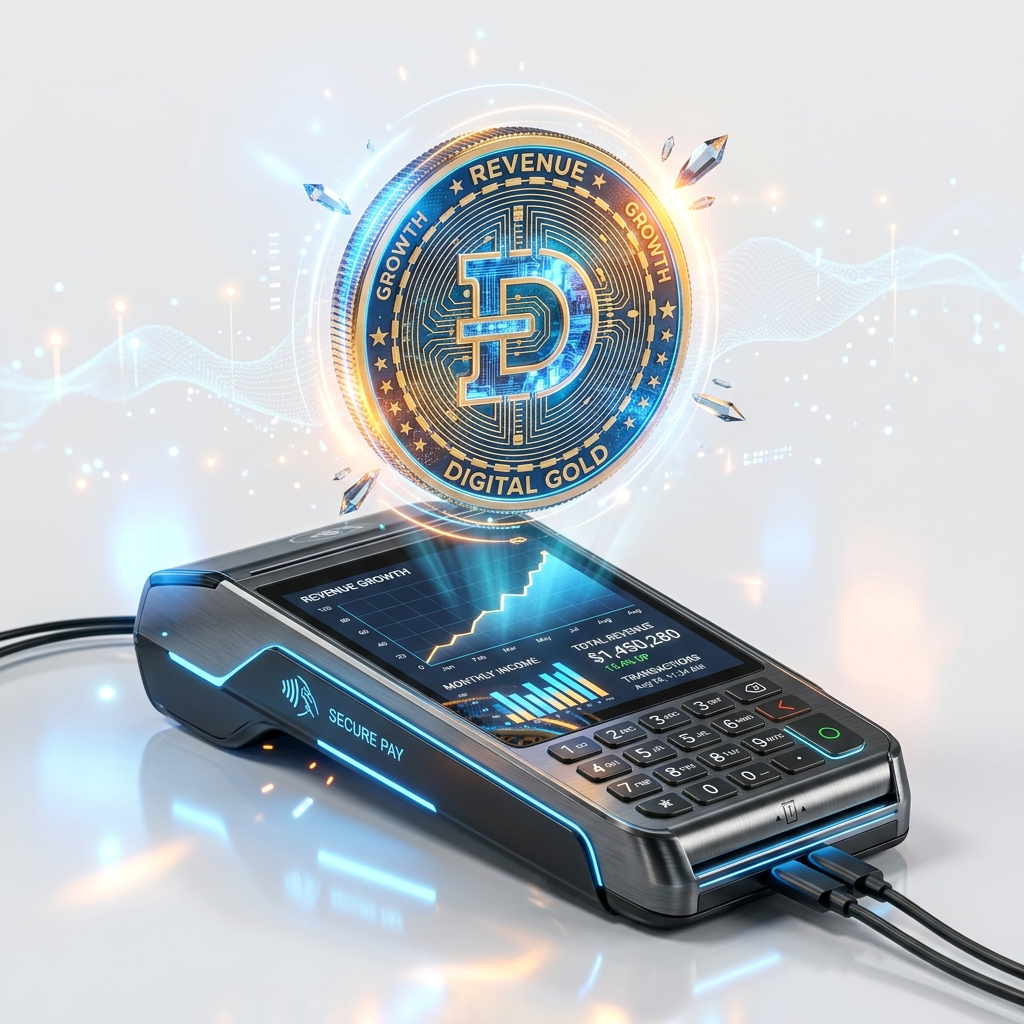
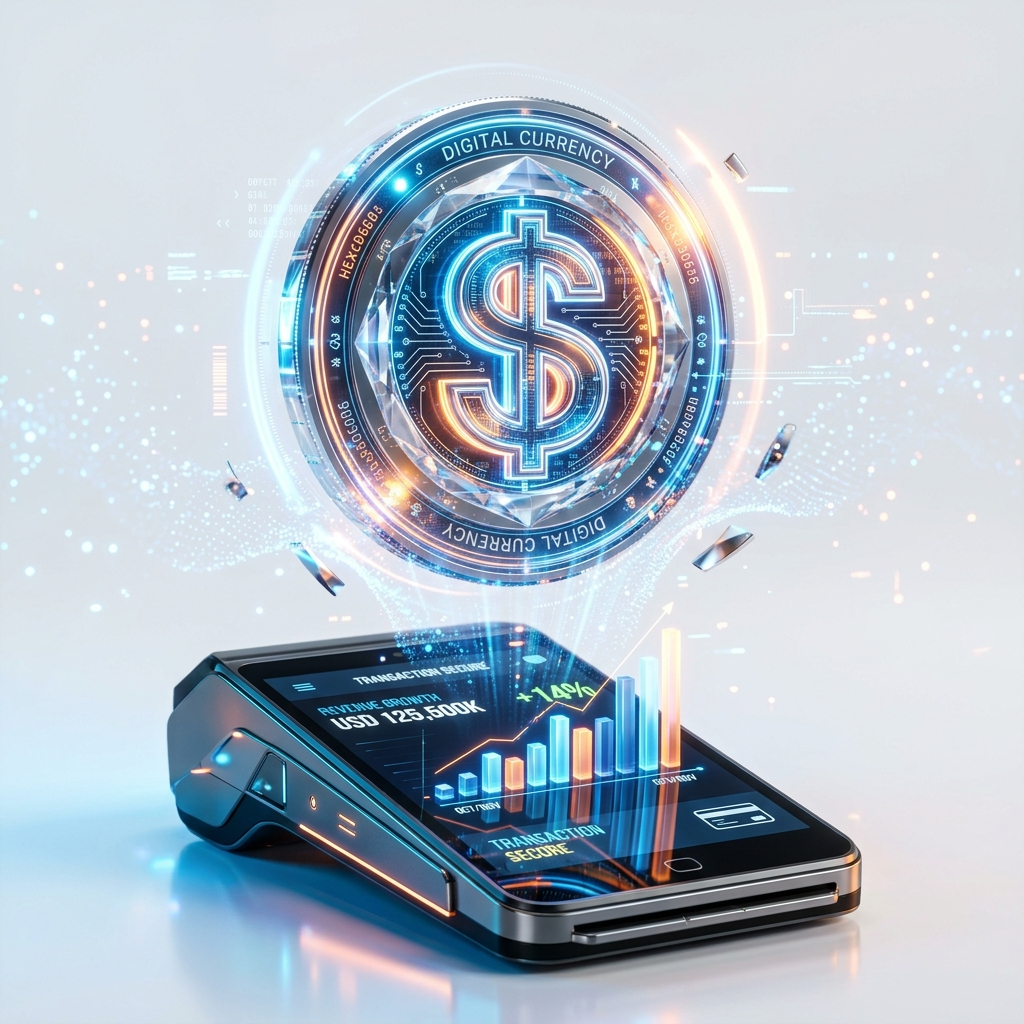
Convert Modules to Holographic Carousel, Upgrade Pilares & Pricing UI

diff --git a/index.html b/index.html
@@ -107,70 +107,133 @@
                 <p class="text-muted">Un ecosistema diseñado para conectar cada proceso de tu clínica sin fisuras.</p>
             </div>
             
-            <div class="row g-4">
-                <!-- 1 -->
-                <div class="col-12 col-md-6 col-lg-3 scroll-reveal">
-                    <div class="p-4 premium-panel holo-card h-100 text-center">
-                        <img src="img/holo/agenda.png" alt="Smart Agenda" class="holo-img">
-                        <h6 class="fw-bold text-navy mb-2">Smart Agenda</h6>
-                        <p class="text-muted small mb-0">Sistema inteligente que evita cruces de horarios. Mantiene tu agenda organizada, responsiva y sin estrés.</p>
+            <div id="modulesCarousel" class="carousel slide shadow-premium rounded-5 overflow-hidden holo-card" data-bs-ride="carousel" data-bs-interval="3000" style="border: 1px solid rgba(0, 196, 196, 0.3);">
+                <div class="carousel-inner bg-white">
+                    
+                    <!-- 1 -->
+                    <div class="carousel-item active">
+                        <div class="row g-0 align-items-center">
+                            <div class="col-md-6 text-center p-5" style="background: radial-gradient(circle, rgba(24,209,230,0.1) 0%, rgba(255,255,255,0) 70%);">
+                                <img src="img/holo/agenda.png" alt="Smart Agenda" class="holo-carousel-img">
+                            </div>
+                            <div class="col-md-6 p-5 text-center text-md-start">
+                                <h3 class="fw-bold text-navy mb-3">Smart Agenda</h3>
+                                <p class="text-muted fs-5">Sistema inteligente que evita cruces de horarios. Mantiene tu agenda organizada, responsiva y sin estrés.</p>
+                            </div>
+                        </div>
                     </div>
+                    
+                    <!-- 2 -->
+                    <div class="carousel-item">
+                        <div class="row g-0 align-items-center">
+                            <div class="col-md-6 text-center p-5" style="background: radial-gradient(circle, rgba(24,209,230,0.1) 0%, rgba(255,255,255,0) 70%);">
+                                <img src="img/holo/expediente.png" alt="Pacientes y Expediente" class="holo-carousel-img">
+                            </div>
+                            <div class="col-md-6 p-5 text-center text-md-start">
+                                <h3 class="fw-bold text-navy mb-3">Pacientes y Expediente</h3>
+                                <p class="text-muted fs-5">Historial médico estructurado con recetas digitales automáticas. Toda la info de tus pacientes a un clic.</p>
+                            </div>
+                        </div>
+                    </div>
+                    
+                    <!-- 3 -->
+                    <div class="carousel-item">
+                        <div class="row g-0 align-items-center">
+                            <div class="col-md-6 text-center p-5" style="background: radial-gradient(circle, rgba(24,209,230,0.1) 0%, rgba(255,255,255,0) 70%);">
+                                <img src="img/holo/caja.png" alt="Control de Caja" class="holo-carousel-img">
+                            </div>
+                            <div class="col-md-6 p-5 text-center text-md-start">
+                                <h3 class="fw-bold text-navy mb-3">Control de Caja</h3>
+                                <p class="text-muted fs-5">Toma el control de tus ingresos. Emisión de recibos fácil y analítica clara de ganancias por especialista.</p>
+                            </div>
+                        </div>
+                    </div>
+
+                    <!-- 4 -->
+                    <div class="carousel-item">
+                        <div class="row g-0 align-items-center">
+                            <div class="col-md-6 text-center p-5" style="background: radial-gradient(circle, rgba(24,209,230,0.1) 0%, rgba(255,255,255,0) 70%);">
+                                <img src="img/holo/inventario.png" alt="Farmacia e Inventarios" class="holo-carousel-img">
+                            </div>
+                            <div class="col-md-6 p-5 text-center text-md-start">
+                                <h3 class="fw-bold text-navy mb-3">Farmacia e Inventarios</h3>
+                                <p class="text-muted fs-5">Monitorea tus existencias, controla lotes y recibe alertas tempranas antes de que tus insumos caduquen.</p>
+                            </div>
+                        </div>
+                    </div>
+
+                    <!-- 5 -->
+                    <div class="carousel-item">
+                        <div class="row g-0 align-items-center">
+                            <div class="col-md-6 text-center p-5" style="background: radial-gradient(circle, rgba(24,209,230,0.1) 0%, rgba(255,255,255,0) 70%);">
+                                <img src="img/holo/dicom.png" alt="Visor DICOM" class="holo-carousel-img">
+                            </div>
+                            <div class="col-md-6 p-5 text-center text-md-start">
+                                <h3 class="fw-bold text-navy mb-3">Visor DICOM</h3>
+                                <p class="text-muted fs-5">Visualiza estudios de imagenología en alta definición interactiva, directamente desde el expediente del paciente.</p>
+                            </div>
+                        </div>
+                    </div>
+
+                    <!-- 6 -->
+                    <div class="carousel-item">
+                        <div class="row g-0 align-items-center">
+                            <div class="col-md-6 text-center p-5" style="background: radial-gradient(circle, rgba(24,209,230,0.1) 0%, rgba(255,255,255,0) 70%);">
+                                <img src="img/holo/telemedicina.png" alt="Telemedicina" class="holo-carousel-img">
+                            </div>
+                            <div class="col-md-6 p-5 text-center text-md-start">
+                                <h3 class="fw-bold text-navy mb-3">Telemedicina</h3>
+                                <p class="text-muted fs-5">Consultorio digital integrado. Atiende por videollamada con chat seguro y transferencia fácil de archivos.</p>
+                            </div>
+                        </div>
+                    </div>
+
+                    <!-- 7 -->
+                    <div class="carousel-item">
+                        <div class="row g-0 align-items-center">
+                            <div class="col-md-6 text-center p-5" style="background: radial-gradient(circle, rgba(24,209,230,0.1) 0%, rgba(255,255,255,0) 70%);">
+                                <img src="img/holo/ai.png" alt="Doctor Assistant AI" class="holo-carousel-img">
+                            </div>
+                            <div class="col-md-6 p-5 text-center text-md-start">
+                                <h3 class="fw-bold text-navy mb-3">Doctor Assistant AI</h3>
+                                <p class="text-muted fs-5">Tu asistente virtual. Resume reportes, evalúa riesgos y te ayuda a tomar decisiones clínicas más rápido.</p>
+                            </div>
+                        </div>
+                    </div>
+
+                    <!-- 8 -->
+                    <div class="carousel-item">
+                        <div class="row g-0 align-items-center">
+                            <div class="col-md-6 text-center p-5" style="background: radial-gradient(circle, rgba(24,209,230,0.1) 0%, rgba(255,255,255,0) 70%);">
+                                <img src="img/holo/seguridad.png" alt="Gobernanza de Datos" class="holo-carousel-img">
+                            </div>
+                            <div class="col-md-6 p-5 text-center text-md-start">
+                                <h3 class="fw-bold text-navy mb-3">Gobernanza de Datos</h3>
+                                <p class="text-muted fs-5">Tu información está blindada. Acceso seguro con control estricto de roles para proteger la privacidad de tu clínica.</p>
+                            </div>
+                        </div>
+                    </div>
+
                 </div>
-                <!-- 2 -->
-                <div class="col-12 col-md-6 col-lg-3 scroll-reveal" style="transition-delay: 100ms;">
-                    <div class="p-4 premium-panel holo-card h-100 text-center">
-                        <img src="img/holo/expediente.png" alt="Pacientes y Expediente" class="holo-img">
-                        <h6 class="fw-bold text-navy mb-2">Pacientes y Expediente</h6>
-                        <p class="text-muted small mb-0">Historial médico estructurado con recetas digitales automáticas. Toda la info de tus pacientes a un clic.</p>
-                    </div>
-                </div>
-                <!-- 3 -->
-                <div class="col-12 col-md-6 col-lg-3 scroll-reveal" style="transition-delay: 200ms;">
-                    <div class="p-4 premium-panel holo-card h-100 text-center">
-                        <img src="img/holo/caja.png" alt="Control de Caja" class="holo-img">
-                        <h6 class="fw-bold text-navy mb-2">Control de Caja</h6>
-                        <p class="text-muted small mb-0">Toma el control de tus ingresos. Emisión de recibos fácil y analítica clara de ganancias por especialista.</p>
-                    </div>
-                </div>
-                <!-- 4 -->
-                <div class="col-12 col-md-6 col-lg-3 scroll-reveal" style="transition-delay: 300ms;">
-                    <div class="p-4 premium-panel holo-card h-100 text-center">
-                        <img src="img/holo/inventario.png" alt="Farmacia e Inventarios" class="holo-img">
-                        <h6 class="fw-bold text-navy mb-2">Farmacia e Inventarios</h6>
-                        <p class="text-muted small mb-0">Monitorea tus existencias, controla lotes y recibe alertas tempranas antes de que tus insumos caduquen.</p>
-                    </div>
-                </div>
-                <!-- 5 -->
-                <div class="col-12 col-md-6 col-lg-3 scroll-reveal">
-                    <div class="p-4 premium-panel holo-card h-100 text-center">
-                        <img src="img/holo/dicom.png" alt="Visor DICOM" class="holo-img">
-                        <h6 class="fw-bold text-navy mb-2">Visor DICOM</h6>
-                        <p class="text-muted small mb-0">Visualiza estudios de imagenología en alta definición interactiva, directamente desde el expediente del paciente.</p>
-                    </div>
-                </div>
-                <!-- 6 -->
-                <div class="col-12 col-md-6 col-lg-3 scroll-reveal" style="transition-delay: 100ms;">
-                    <div class="p-4 premium-panel holo-card h-100 text-center">
-                        <img src="img/holo/telemedicina.png" alt="Telemedicina" class="holo-img">
-                        <h6 class="fw-bold text-navy mb-2">Telemedicina</h6>
-                        <p class="text-muted small mb-0">Consultorio digital integrado. Atiende por videollamada con chat seguro y transferencia fácil de archivos.</p>
-                    </div>
-                </div>
-                <!-- 7 -->
-                <div class="col-12 col-md-6 col-lg-3 scroll-reveal" style="transition-delay: 200ms;">
-                    <div class="p-4 premium-panel holo-card h-100 text-center">
-                        <img src="img/holo/ai.png" alt="Doctor Assistant AI" class="holo-img">
-                        <h6 class="fw-bold text-navy mb-2">Doctor Assistant AI</h6>
-                        <p class="text-muted small mb-0">Tu asistente virtual. Resume reportes, evalúa riesgos y te ayuda a tomar decisiones clínicas más rápido.</p>
-                    </div>
-                </div>
-                <!-- 8 -->
-                <div class="col-12 col-md-6 col-lg-3 scroll-reveal" style="transition-delay: 300ms;">
-                    <div class="p-4 premium-panel holo-card h-100 text-center">
-                        <img src="img/holo/seguridad.png" alt="Gobernanza de Datos" class="holo-img">
-                        <h6 class="fw-bold text-navy mb-2">Gobernanza de Datos</h6>
-                        <p class="text-muted small mb-0">Tu información está blindada. Acceso seguro con control estricto de roles para proteger la privacidad de tu clínica.</p>
-                    </div>
+                
+                <!-- Controles -->
+                <button class="carousel-control-prev" type="button" data-bs-target="#modulesCarousel" data-bs-slide="prev">
+                    <i class="bi bi-chevron-left text-navy fs-1" aria-hidden="true"></i>
+                    <span class="visually-hidden">Anterior</span>
+                </button>
+                <button class="carousel-control-next" type="button" data-bs-target="#modulesCarousel" data-bs-slide="next">
+                    <i class="bi bi-chevron-right text-navy fs-1" aria-hidden="true"></i>
+                    <span class="visually-hidden">Siguiente</span>
+                </button>
+                <div class="carousel-indicators" style="bottom: -15px;">
+                    <button type="button" data-bs-target="#modulesCarousel" data-bs-slide-to="0" class="active" aria-current="true" aria-label="Slide 1"></button>
+                    <button type="button" data-bs-target="#modulesCarousel" data-bs-slide-to="1" aria-label="Slide 2"></button>
+                    <button type="button" data-bs-target="#modulesCarousel" data-bs-slide-to="2" aria-label="Slide 3"></button>
+                    <button type="button" data-bs-target="#modulesCarousel" data-bs-slide-to="3" aria-label="Slide 4"></button>
+                    <button type="button" data-bs-target="#modulesCarousel" data-bs-slide-to="4" aria-label="Slide 5"></button>
+                    <button type="button" data-bs-target="#modulesCarousel" data-bs-slide-to="5" aria-label="Slide 6"></button>
+                    <button type="button" data-bs-target="#modulesCarousel" data-bs-slide-to="6" aria-label="Slide 7"></button>
+                    <button type="button" data-bs-target="#modulesCarousel" data-bs-slide-to="7" aria-label="Slide 8"></button>
                 </div>
             </div>
         </div>
@@ -247,8 +310,8 @@
             <div class="row g-4">
                 <div class="col-md-4 scroll-reveal">
                     <div class="p-4 premium-panel h-100 d-flex flex-column justify-content-between">
-                        <div>
-                            <div class="fs-2 text-primary mb-3">📅</div>
+                        <div class="text-center">
+                            <img src="img/holo/pilar_agenda.png" alt="Agenda Anti-Colisión" class="holo-img">
                             <h5 class="fw-bold text-navy">1. Agenda Inteligente (Anti-Colisión)</h5>
                             <p class="text-muted mb-3">Sistema reactivo que evita traslapes de citas en tiempo real. Olvídate del estrés, reduce las ausencias y mantén al equipo fluyendo.</p>
                         </div>
@@ -260,8 +323,8 @@
                 </div>
                 <div class="col-md-4 scroll-reveal">
                     <div class="p-4 premium-panel h-100 d-flex flex-column justify-content-between">
-                        <div>
-                            <div class="fs-2 text-primary mb-3">🩺</div>
+                        <div class="text-center">
+                            <img src="img/holo/pilar_expediente.png" alt="Expediente Clínico" class="holo-img">
                             <h5 class="fw-bold text-navy">2. Expediente Clínico v5.0 (NOM)</h5>
                             <p class="text-muted mb-3">Registros médicos siempre organizados y listos. Notas, diagnósticos y recetas seguras que cumplen estrictamente con la normativa legal (CIE-10).</p>
                         </div>
@@ -273,8 +336,8 @@
                 </div>
                 <div class="col-md-4 scroll-reveal">
                     <div class="p-4 premium-panel h-100 d-flex flex-column justify-content-between">
-                        <div>
-                            <div class="fs-2 text-primary mb-3">📊</div>
+                        <div class="text-center">
+                            <img src="img/holo/pilar_finanzas.png" alt="Finanzas Diamond Sync" class="holo-img">
                             <h5 class="fw-bold text-navy">3. Finanzas Diamond Sync</h5>
                             <p class="text-muted mb-3">Toma el control financiero total de tu clínica. Automatiza tus reportes de facturación, ingresos y cajas sin necesidad de ser contador.</p>
                         </div>
@@ -306,7 +369,7 @@
             </div>
 
             <!-- Mini Carousel of Screens -->
-            <div id="demoCarousel" class="carousel slide mx-auto mb-5 shadow-sm border rounded-4 bg-white p-4" data-bs-ride="carousel" style="max-width: 600px;">
+            <div id="demoCarousel" class="carousel slide mx-auto mb-5 holo-card rounded-4 p-4" data-bs-ride="carousel" style="max-width: 600px;">
                 <div class="carousel-inner">
                     <div class="carousel-item active">
                         <div class="py-3 text-center">
@@ -459,10 +522,10 @@
                 </div>
             </div>
             
-            <div class="row justify-content-center align-items-center g-4">
+            <div class="row justify-content-center align-items-start g-4">
                 <!-- Plan 1: Consultorio Básico -->
                 <div class="col-md-6 col-lg-5">
-                    <div class="p-5 premium-panel h-100 d-flex flex-column position-relative">
+                    <div class="p-5 premium-panel holo-card h-100 d-flex flex-column position-relative">
                         <h3 class="fw-bold text-navy mt-2">Consultorio Básico</h3>
                         <p class="text-muted small">Ideal para médicos independientes.</p>
                         <h1 class="fw-bold text-navy my-4">$381.64 <span class="fs-6 text-muted">MXN / mes</span></h1>
@@ -481,7 +544,7 @@
 
                 <!-- Plan 2: Clínica Profesional -->
                 <div class="col-md-6 col-lg-5">
-                    <div class="p-5 premium-panel h-100 d-flex flex-column position-relative" style="transform: scale(1.03); border: 2px solid var(--md-teal-clinical) !important; z-index: 2;">
+                    <div class="p-5 premium-panel holo-card h-100 d-flex flex-column position-relative" style="transform: scale(1.03); border: 2px solid var(--md-teal-clinical) !important; z-index: 2;">
                         <span class="position-absolute top-0 start-50 translate-middle badge rounded-pill bg-primary px-3 py-2 shadow" style="font-size: 0.85rem;">⭐ Recomendado</span>
                         <h3 class="fw-bold text-navy mt-2">Clínica Profesional</h3>
                         <p class="text-muted small">Para clínicas en crecimiento.</p>

diff --git a/css/ospulso_master.css b/css/ospulso_master.css
@@ -1747,3 +1747,26 @@ footer {
     position: relative;
     z-index: 1;
 }
+
+@keyframes floatHolo {
+    0% { transform: translateY(0px); }
+    50% { transform: translateY(-15px); filter: drop-shadow(0 15px 20px rgba(24, 209, 230, 0.4)); }
+    100% { transform: translateY(0px); }
+}
+
+.holo-carousel-img {
+    animation: floatHolo 6s ease-in-out infinite;
+    max-height: 400px;
+    object-fit: contain;
+    position: relative;
+    z-index: 2;
+}
+
+.carousel-control-prev, .carousel-control-next {
+    width: 5%;
+    z-index: 10;
+}
+
+.carousel-indicators [data-bs-target] {
+    background-color: var(--md-teal-clinical);
+}
